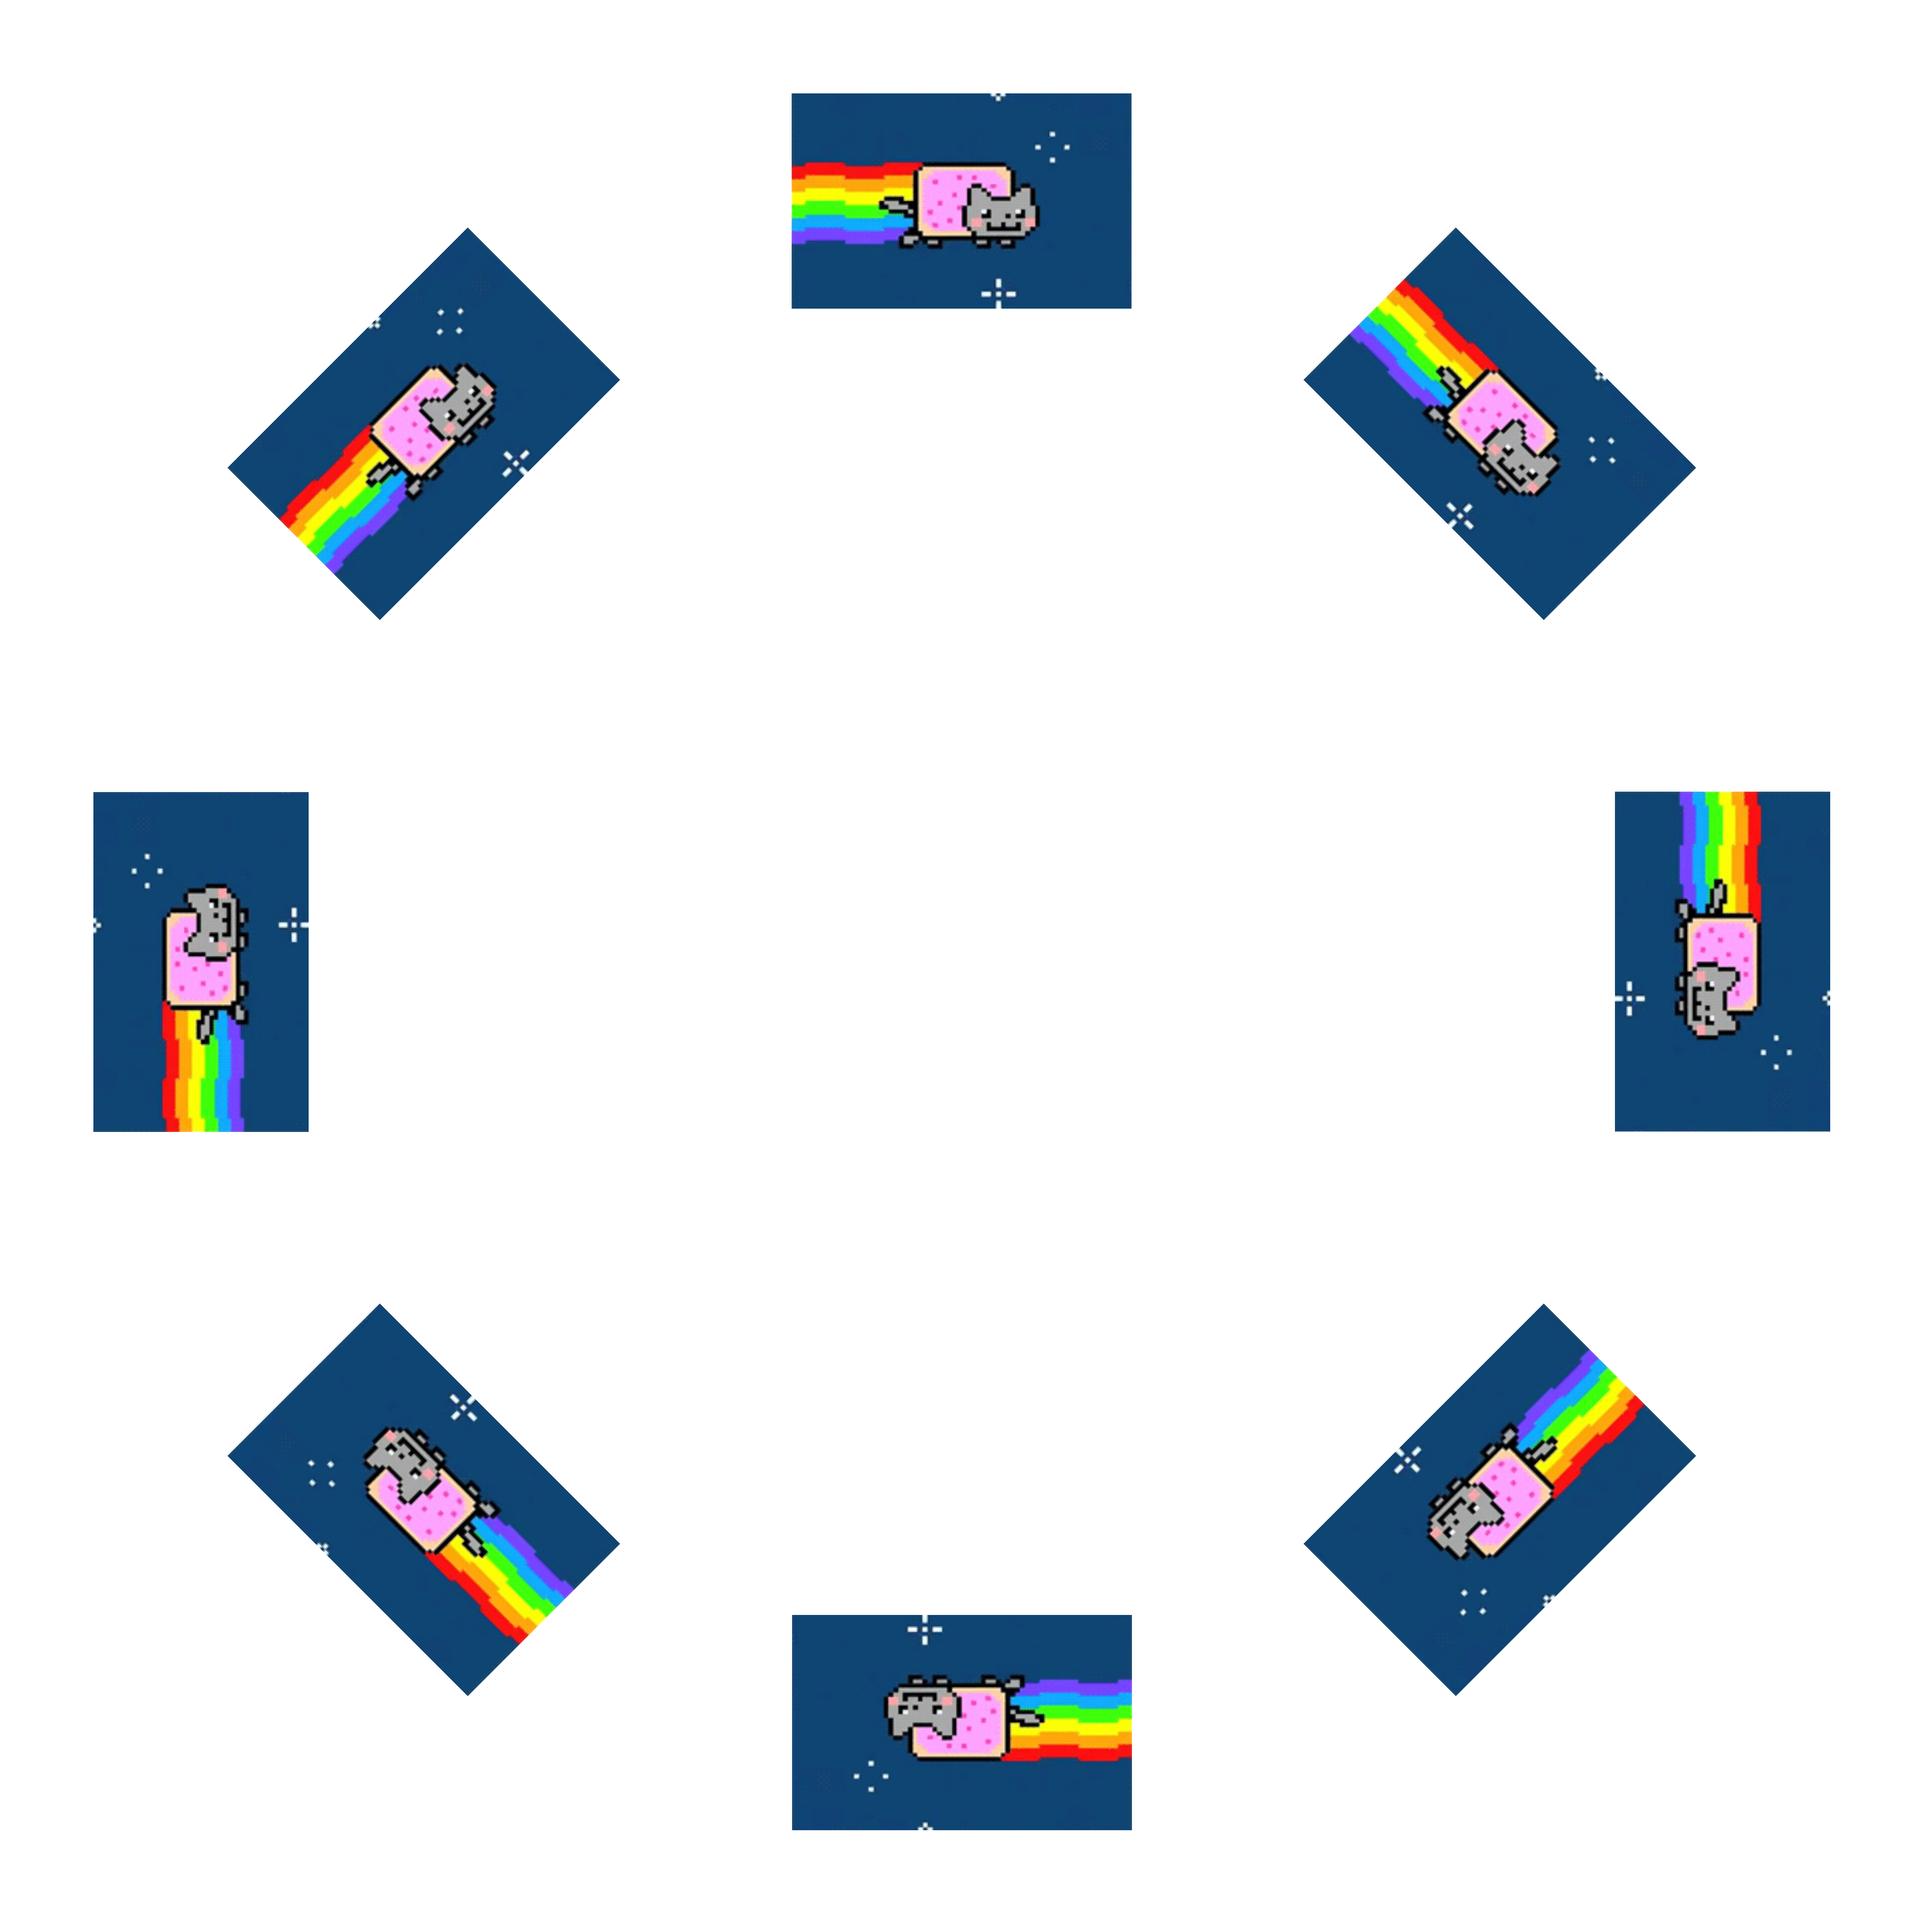
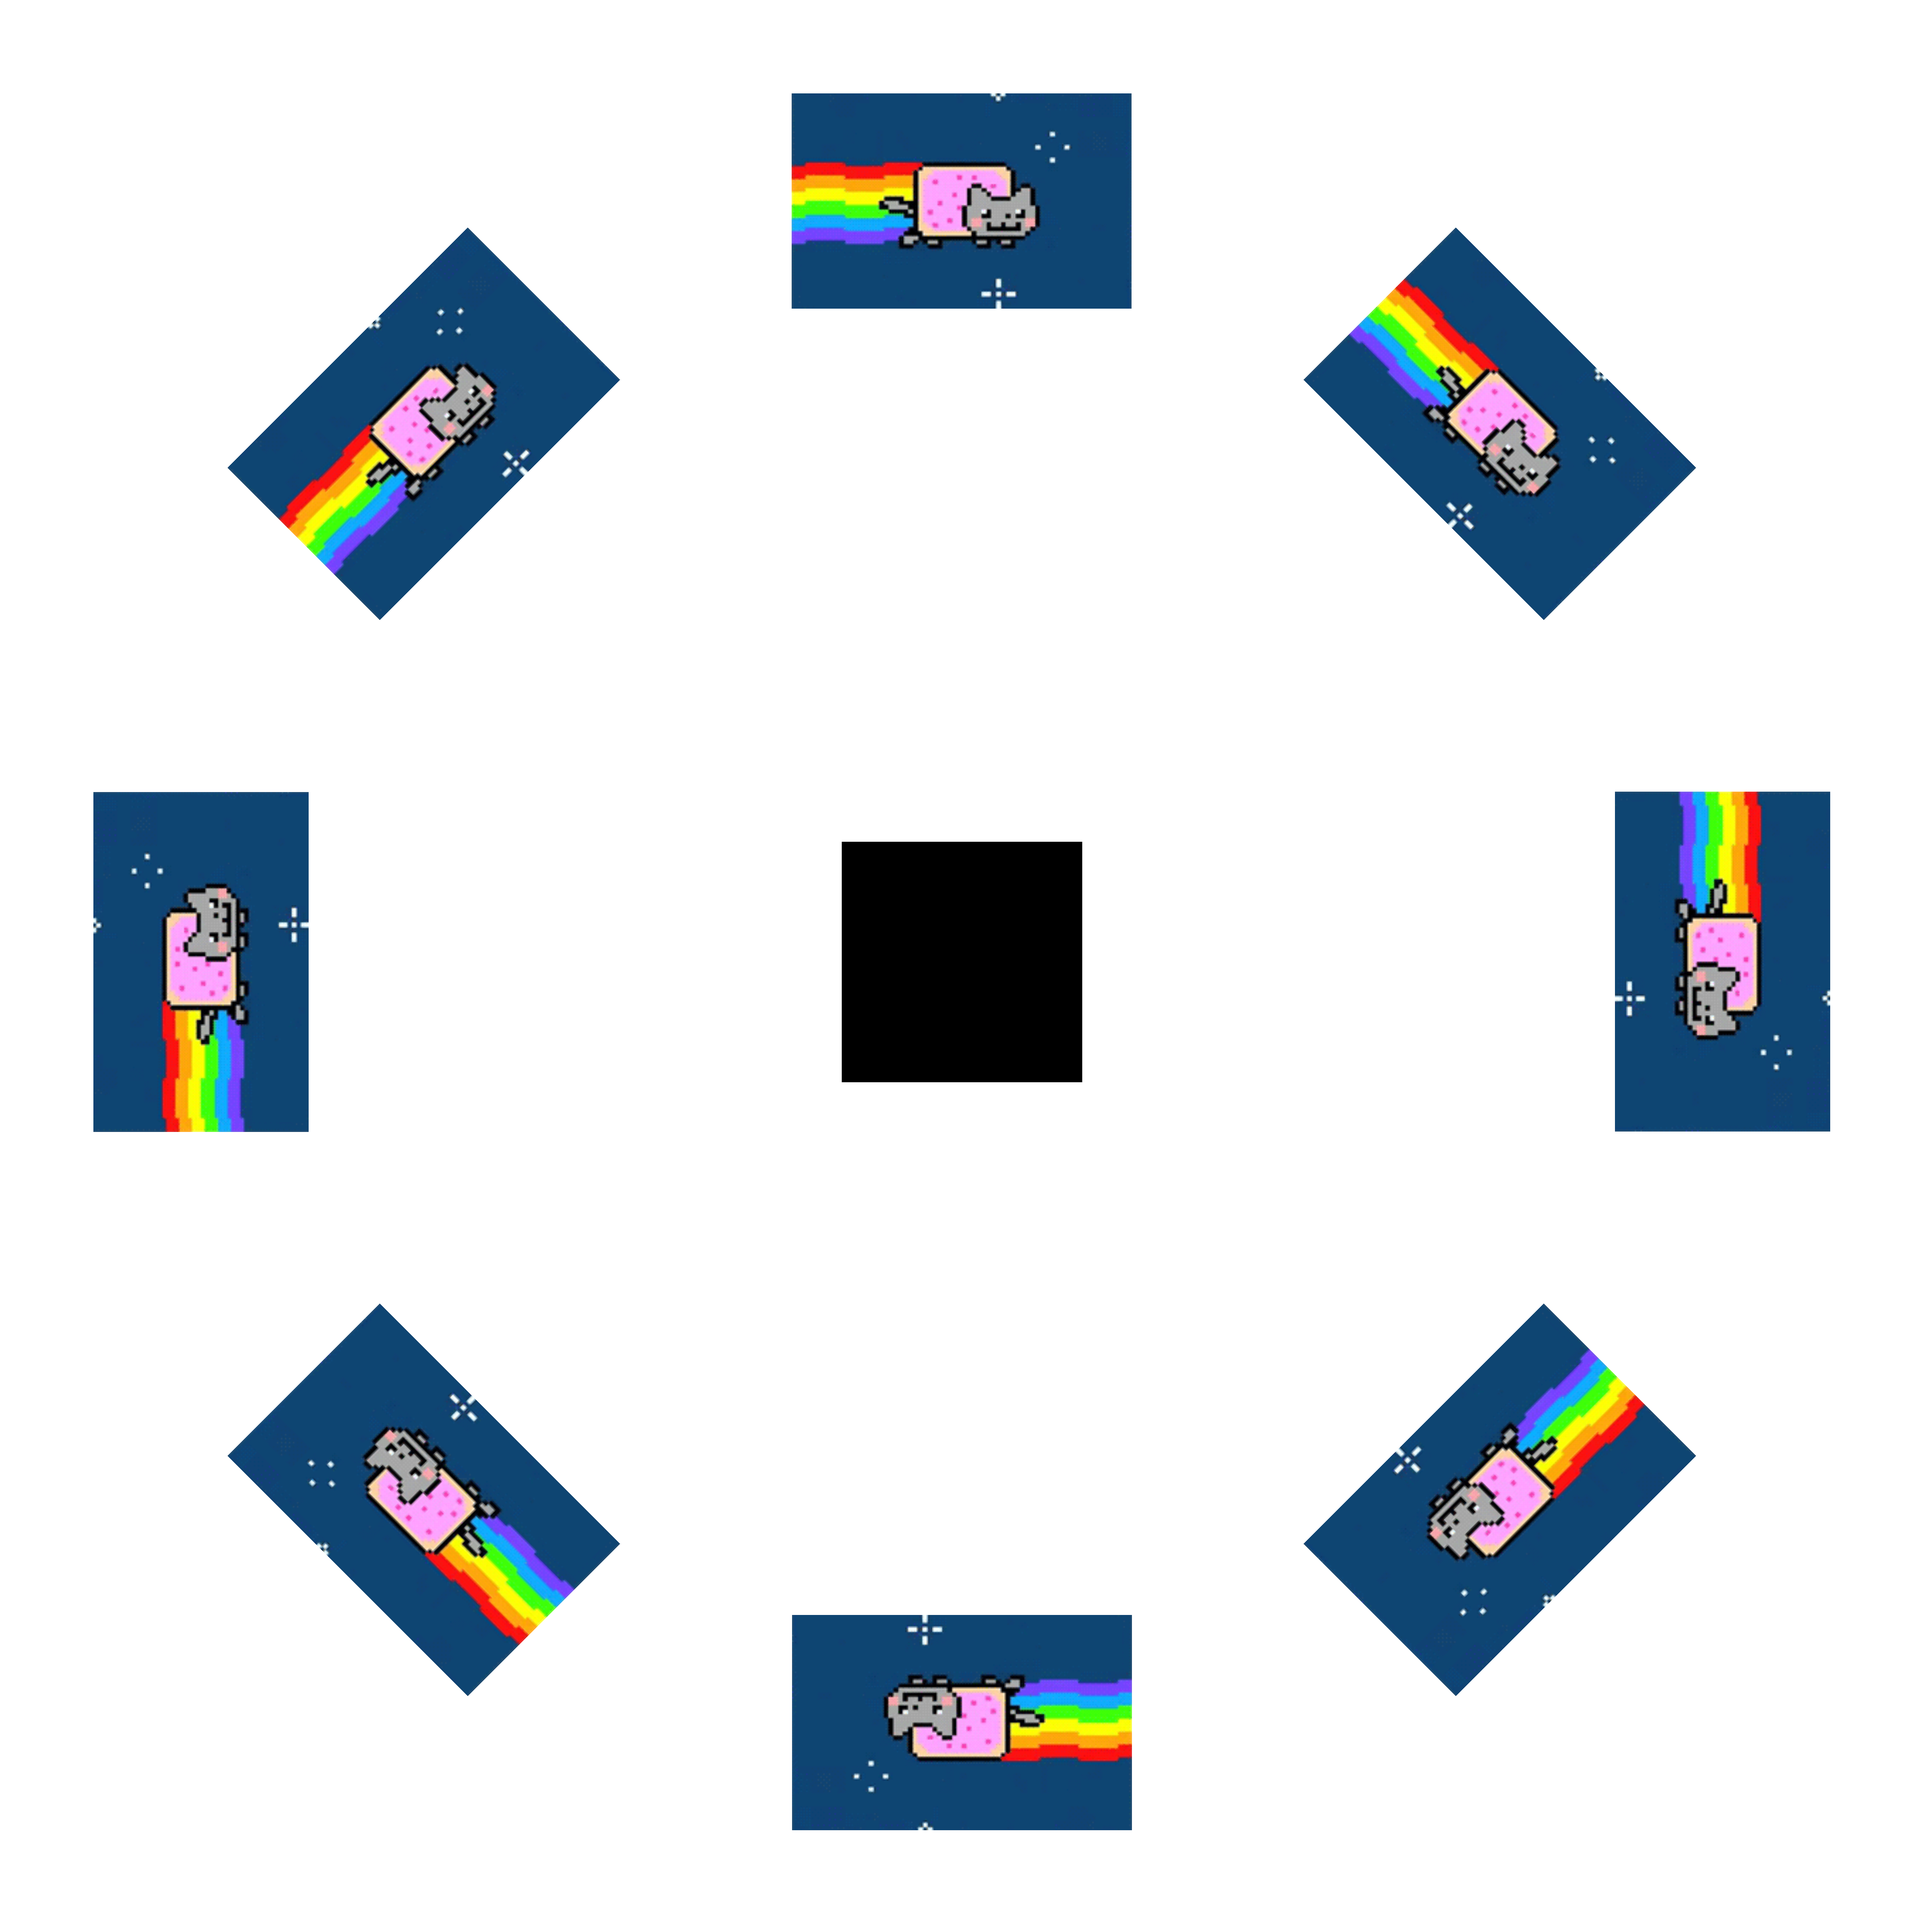
Removed debugging pics, added centering point for priting gifs

Changed region(s): [[0.4375, 0.4375, 0.5625, 0.5625]]

diff --git a/print/extract_frames.py b/print/extract_frames.py
@@ -34,7 +34,7 @@ def processImage(infile):
 
         if dispose is None:
             prev.paste(frame, bbox, frame.convert('RGBA'))
-            prev.save(infile[:-4]+'%02d.png' % i)
+            #prev.save(infile[:-4]+'%02d.png' % i)
             prev_dispose = False
             images.append(prev)
         else:
@@ -42,7 +42,7 @@ def processImage(infile):
                 prev = Image.new('RGBA', img.size, (0, 0, 0, 0))
             out = prev.copy()
             out.paste(frame, bbox, frame.convert('RGBA'))
-            out.save(infile[:-4]+'%02d.png' % i)
+            #out.save(infile[:-4]+'%02d.png' % i)
             images.append(out)
 
 processImage(infile)
@@ -60,6 +60,9 @@ def createWheelIm(frames, imwidth, imheight):
         angle = x * 360.0/numFrames
         copyAtAngle(out, images[x].resize((int(frameW), int(frameH)), Image.ANTIALIAS), angle)
     #Add a large square in the middle for easy centering
+
+    img = Image.new("RGBA", (dpi, dpi), "black")
+    out.paste(img, (center[0] - dpi/2, center[1]-dpi/2))
     out.save(infile[:-4]+'_output.png')
 
 def copyAtAngle(out, frame, angle):
@@ -83,16 +86,6 @@ def copyAtAngle(out, frame, angle):
 
     #print center, point, imwidth, imheight, dim
     #print rotatePoint(center, point, 90, int(out.size[0]-dim), int(out.size[1]-dim))
-def createMask(output, frame, coord, angle):
-    alpha = frame.split()[-1]
-    outalpha = output.split()[-1]
-    outalpha.save(infile[:-4]+'_maskOutput%02d.png'% angle)
-    alpha = alpha.point(lambda i: min(i * 255, 255))
-    imwidth, imheight = output.size
-    out=Image.new("L", (imwidth, imheight))
-    out.paste(alpha, coord)
-    out.save(infile[:-4]+'_mask%02d.png'% angle)
-    return out
 
 
 '''
